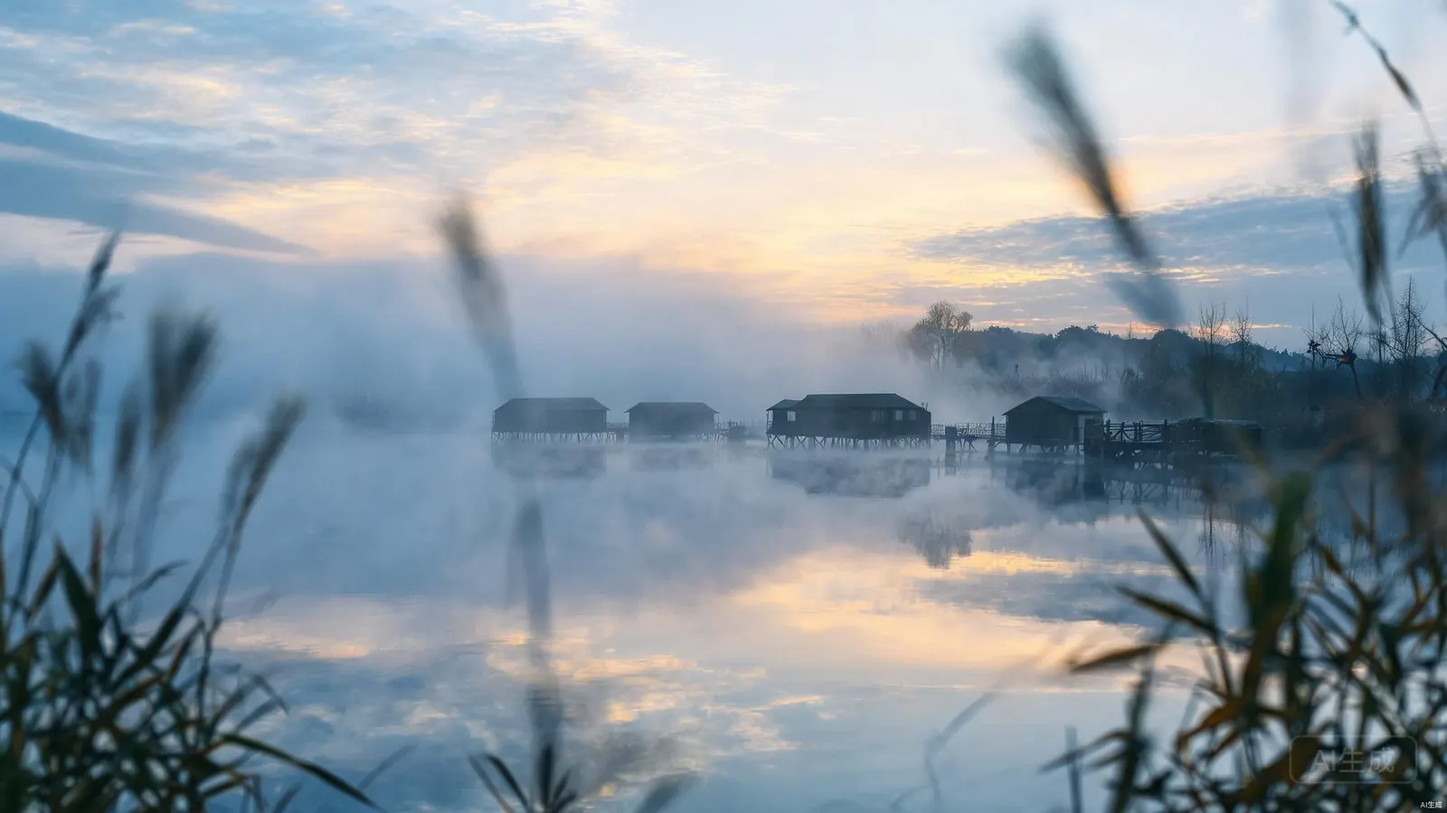
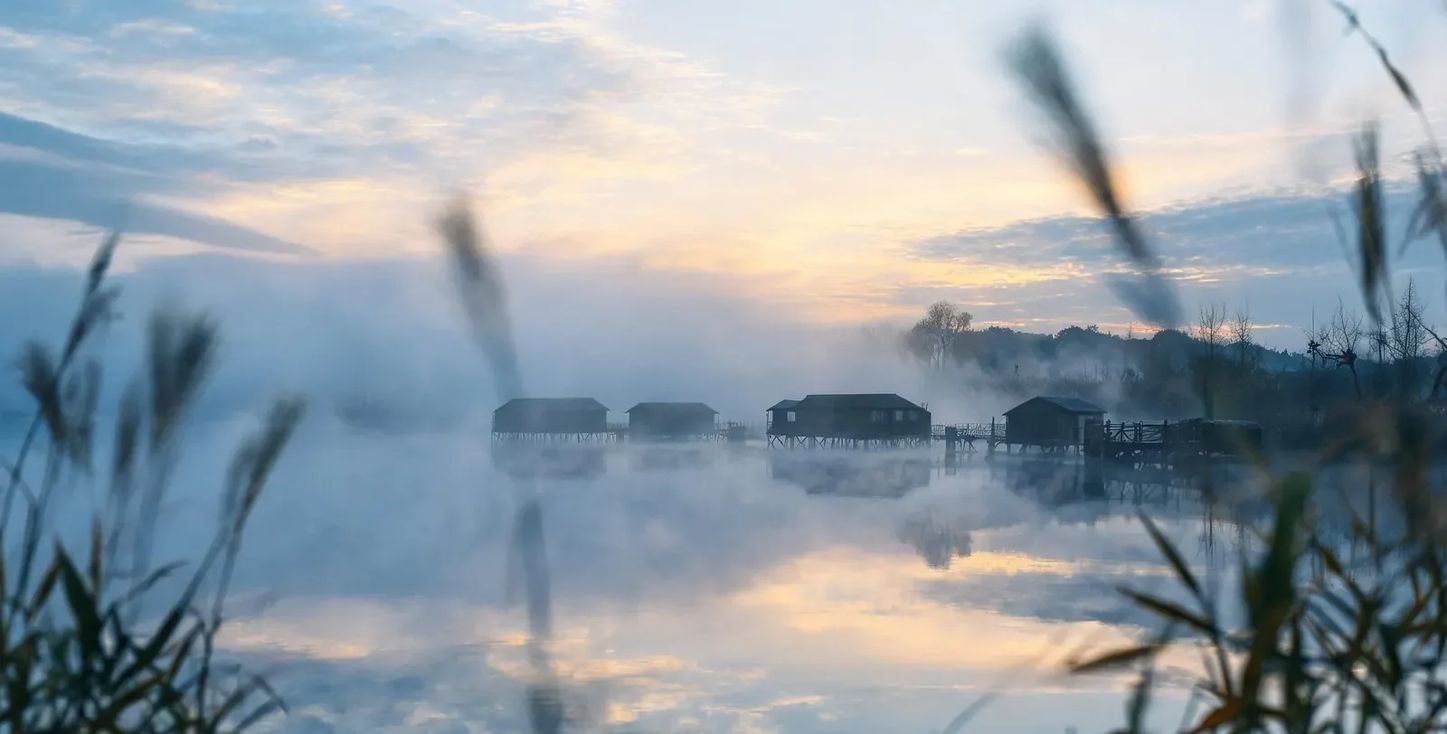
fix: crop watermarks, mobile nav, Beijing day count
Crop the AI badge off generated frames. Count days from 2003-05-15 in Asia/Shanghai. Add a phone menu, drop the ticker and custom cursor, and smooth scrolling.

diff --git a/assets/js/lenis.min.js b/assets/js/lenis.min.js
@@ -1,0 +1,2 @@
+var k="1.1.18";function w(r,t,e){return Math.max(r,Math.min(t,e))}function W(r,t,e){return(1-e)*r+e*t}function z(r,t,e,i){return W(r,t,1-Math.exp(-e*i))}function x(r,t){return(r%t+t)%t}var y=class{isRunning=!1;value=0;from=0;to=0;currentTime=0;lerp;duration;easing;onUpdate;advance(t){if(!this.isRunning)return;let e=!1;if(this.duration&&this.easing){this.currentTime+=t;let i=w(0,this.currentTime/this.duration,1);e=i>=1;let s=e?1:this.easing(i);this.value=this.from+(this.to-this.from)*s}else this.lerp?(this.value=z(this.value,this.to,this.lerp*60,t),Math.round(this.value)===this.to&&(this.value=this.to,e=!0)):(this.value=this.to,e=!0);e&&this.stop(),this.onUpdate?.(this.value,e)}stop(){this.isRunning=!1}fromTo(t,e,{lerp:i,duration:s,easing:o,onStart:l,onUpdate:h}){this.from=this.value=t,this.to=e,this.lerp=i,this.duration=s,this.easing=o,this.currentTime=0,this.isRunning=!0,l?.(),this.onUpdate=h}};function R(r,t){let e;return function(...i){let s=this;clearTimeout(e),e=setTimeout(()=>{e=void 0,r.apply(s,i)},t)}}var E=class{constructor(t,e,{autoResize:i=!0,debounce:s=250}={}){this.wrapper=t;this.content=e;i&&(this.debouncedResize=R(this.resize,s),this.wrapper instanceof Window?window.addEventListener("resize",this.debouncedResize,!1):(this.wrapperResizeObserver=new ResizeObserver(this.debouncedResize),this.wrapperResizeObserver.observe(this.wrapper)),this.contentResizeObserver=new ResizeObserver(this.debouncedResize),this.contentResizeObserver.observe(this.content)),this.resize()}width=0;height=0;scrollHeight=0;scrollWidth=0;debouncedResize;wrapperResizeObserver;contentResizeObserver;destroy(){this.wrapperResizeObserver?.disconnect(),this.contentResizeObserver?.disconnect(),this.wrapper===window&&this.debouncedResize&&window.removeEventListener("resize",this.debouncedResize,!1)}resize=()=>{this.onWrapperResize(),this.onContentResize()};onWrapperResize=()=>{this.wrapper instanceof Window?(this.width=window.innerWidth,this.height=window.innerHeight):(this.width=this.wrapper.clientWidth,this.height=this.wrapper.clientHeight)};onContentResize=()=>{this.wrapper instanceof Window?(this.scrollHeight=this.content.scrollHeight,this.scrollWidth=this.content.scrollWidth):(this.scrollHeight=this.wrapper.scrollHeight,this.scrollWidth=this.wrapper.scrollWidth)};get limit(){return{x:this.scrollWidth-this.width,y:this.scrollHeight-this.height}}};var f=class{events={};emit(t,...e){let i=this.events[t]||[];for(let s=0,o=i.length;s<o;s++)i[s]?.(...e)}on(t,e){return this.events[t]?.push(e)||(this.events[t]=[e]),()=>{this.events[t]=this.events[t]?.filter(i=>e!==i)}}off(t,e){this.events[t]=this.events[t]?.filter(i=>e!==i)}destroy(){this.events={}}};var _=100/6,u={passive:!1},T=class{constructor(t,e={wheelMultiplier:1,touchMultiplier:1}){this.element=t;this.options=e;window.addEventListener("resize",this.onWindowResize,!1),this.onWindowResize(),this.element.addEventListener("wheel",this.onWheel,u),this.element.addEventListener("touchstart",this.onTouchStart,u),this.element.addEventListener("touchmove",this.onTouchMove,u),this.element.addEventListener("touchend",this.onTouchEnd,u)}touchStart={x:0,y:0};lastDelta={x:0,y:0};window={width:0,height:0};emitter=new f;on(t,e){return this.emitter.on(t,e)}destroy(){this.emitter.destroy(),window.removeEventListener("resize",this.onWindowResize,!1),this.element.removeEventListener("wheel",this.onWheel,u),this.element.removeEventListener("touchstart",this.onTouchStart,u),this.element.removeEventListener("touchmove",this.onTouchMove,u),this.element.removeEventListener("touchend",this.onTouchEnd,u)}onTouchStart=t=>{let{clientX:e,clientY:i}=t.targetTouches?t.targetTouches[0]:t;this.touchStart.x=e,this.touchStart.y=i,this.lastDelta={x:0,y:0},this.emitter.emit("scroll",{deltaX:0,deltaY:0,event:t})};onTouchMove=t=>{let{clientX:e,clientY:i}=t.targetTouches?t.targetTouches[0]:t,s=-(e-this.touchStart.x)*this.options.touchMultiplier,o=-(i-this.touchStart.y)*this.options.touchMultiplier;this.touchStart.x=e,this.touchStart.y=i,this.lastDelta={x:s,y:o},this.emitter.emit("scroll",{deltaX:s,deltaY:o,event:t})};onTouchEnd=t=>{this.emitter.emit("scroll",{deltaX:this.lastDelta.x,deltaY:this.lastDelta.y,event:t})};onWheel=t=>{let{deltaX:e,deltaY:i,deltaMode:s}=t,o=s===1?_:s===2?this.window.width:1,l=s===1?_:s===2?this.window.height:1;e*=o,i*=l,e*=this.options.wheelMultiplier,i*=this.options.wheelMultiplier,this.emitter.emit("scroll",{deltaX:e,deltaY:i,event:t})};onWindowResize=()=>{this.window={width:window.innerWidth,height:window.innerHeight}}};var L=class{_isScrolling=!1;_isStopped=!1;_isLocked=!1;_preventNextNativeScrollEvent=!1;_resetVelocityTimeout=null;__rafID=null;isTouching;time=0;userData={};lastVelocity=0;velocity=0;direction=0;options;targetScroll;animatedScroll;animate=new y;emitter=new f;dimensions;virtualScroll;constructor({wrapper:t=window,content:e=document.documentElement,eventsTarget:i=t,smoothWheel:s=!0,syncTouch:o=!1,syncTouchLerp:l=.075,touchInertiaMultiplier:h=35,duration:S,easing:d=H=>Math.min(1,1.001-Math.pow(2,-10*H)),lerp:c=.1,infinite:p=!1,orientation:b="vertical",gestureOrientation:n="vertical",touchMultiplier:a=1,wheelMultiplier:v=1,autoResize:g=!0,prevent:m,virtualScroll:N,overscroll:M=!0,autoRaf:O=!1,__experimental__naiveDimensions:D=!1}={}){window.lenisVersion=k,(!t||t===document.documentElement||t===document.body)&&(t=window),this.options={wrapper:t,content:e,eventsTarget:i,smoothWheel:s,syncTouch:o,syncTouchLerp:l,touchInertiaMultiplier:h,duration:S,easing:d,lerp:c,infinite:p,gestureOrientation:n,orientation:b,touchMultiplier:a,wheelMultiplier:v,autoResize:g,prevent:m,virtualScroll:N,overscroll:M,autoRaf:O,__experimental__naiveDimensions:D},this.dimensions=new E(t,e,{autoResize:g}),this.updateClassName(),this.targetScroll=this.animatedScroll=this.actualScroll,this.options.wrapper.addEventListener("scroll",this.onNativeScroll,!1),this.options.wrapper.addEventListener("pointerdown",this.onPointerDown,!1),this.virtualScroll=new T(i,{touchMultiplier:a,wheelMultiplier:v}),this.virtualScroll.on("scroll",this.onVirtualScroll),this.options.autoRaf&&(this.__rafID=requestAnimationFrame(this.raf))}destroy(){this.emitter.destroy(),this.options.wrapper.removeEventListener("scroll",this.onNativeScroll,!1),this.options.wrapper.removeEventListener("pointerdown",this.onPointerDown,!1),this.virtualScroll.destroy(),this.dimensions.destroy(),this.cleanUpClassName(),this.__rafID&&cancelAnimationFrame(this.__rafID)}on(t,e){return this.emitter.on(t,e)}off(t,e){return this.emitter.off(t,e)}setScroll(t){this.isHorizontal?this.rootElement.scrollLeft=t:this.rootElement.scrollTop=t}onPointerDown=t=>{t.button===1&&this.reset()};onVirtualScroll=t=>{if(typeof this.options.virtualScroll=="function"&&this.options.virtualScroll(t)===!1)return;let{deltaX:e,deltaY:i,event:s}=t;if(this.emitter.emit("virtual-scroll",{deltaX:e,deltaY:i,event:s}),s.ctrlKey||s.lenisStopPropagation)return;let o=s.type.includes("touch"),l=s.type.includes("wheel");this.isTouching=s.type==="touchstart"||s.type==="touchmove";let h=e===0&&i===0;if(this.options.syncTouch&&o&&s.type==="touchstart"&&h&&!this.isStopped&&!this.isLocked){this.reset();return}let d=this.options.gestureOrientation==="vertical"&&i===0||this.options.gestureOrientation==="horizontal"&&e===0;if(h||d)return;let c=s.composedPath();c=c.slice(0,c.indexOf(this.rootElement));let p=this.options.prevent;if(c.find(m=>m instanceof HTMLElement&&(typeof p=="function"&&p?.(m)||m.hasAttribute?.("data-lenis-prevent")||o&&m.hasAttribute?.("data-lenis-prevent-touch")||l&&m.hasAttribute?.("data-lenis-prevent-wheel"))))return;if(this.isStopped||this.isLocked){s.preventDefault();return}if(!(this.options.syncTouch&&o||this.options.smoothWheel&&l)){this.isScrolling="native",this.animate.stop(),s.lenisStopPropagation=!0;return}let n=i;this.options.gestureOrientation==="both"?n=Math.abs(i)>Math.abs(e)?i:e:this.options.gestureOrientation==="horizontal"&&(n=e),(!this.options.overscroll||this.options.infinite||this.options.wrapper!==window&&(this.animatedScroll>0&&this.animatedScroll<this.limit||this.animatedScroll===0&&i>0||this.animatedScroll===this.limit&&i<0))&&(s.lenisStopPropagation=!0),s.preventDefault();let a=o&&this.options.syncTouch,g=o&&s.type==="touchend"&&Math.abs(n)>5;g&&(n=this.velocity*this.options.touchInertiaMultiplier),this.scrollTo(this.targetScroll+n,{programmatic:!1,...a?{lerp:g?this.options.syncTouchLerp:1}:{lerp:this.options.lerp,duration:this.options.duration,easing:this.options.easing}})};resize(){this.dimensions.resize(),this.animatedScroll=this.targetScroll=this.actualScroll,this.emit()}emit(){this.emitter.emit("scroll",this)}onNativeScroll=()=>{if(this._resetVelocityTimeout!==null&&(clearTimeout(this._resetVelocityTimeout),this._resetVelocityTimeout=null),this._preventNextNativeScrollEvent){this._preventNextNativeScrollEvent=!1;return}if(this.isScrolling===!1||this.isScrolling==="native"){let t=this.animatedScroll;this.animatedScroll=this.targetScroll=this.actualScroll,this.lastVelocity=this.velocity,this.velocity=this.animatedScroll-t,this.direction=Math.sign(this.animatedScroll-t),this.isStopped||(this.isScrolling="native"),this.emit(),this.velocity!==0&&(this._resetVelocityTimeout=setTimeout(()=>{this.lastVelocity=this.velocity,this.velocity=0,this.isScrolling=!1,this.emit()},400))}};reset(){this.isLocked=!1,this.isScrolling=!1,this.animatedScroll=this.targetScroll=this.actualScroll,this.lastVelocity=this.velocity=0,this.animate.stop()}start(){this.isStopped&&(this.reset(),this.isStopped=!1)}stop(){this.isStopped||(this.reset(),this.isStopped=!0)}raf=t=>{let e=t-(this.time||t);this.time=t,this.animate.advance(e*.001),this.options.autoRaf&&(this.__rafID=requestAnimationFrame(this.raf))};scrollTo(t,{offset:e=0,immediate:i=!1,lock:s=!1,duration:o=this.options.duration,easing:l=this.options.easing,lerp:h=this.options.lerp,onStart:S,onComplete:d,force:c=!1,programmatic:p=!0,userData:b}={}){if(!((this.isStopped||this.isLocked)&&!c)){if(typeof t=="string"&&["top","left","start"].includes(t))t=0;else if(typeof t=="string"&&["bottom","right","end"].includes(t))t=this.limit;else{let n;if(typeof t=="string"?n=document.querySelector(t):t instanceof HTMLElement&&t?.nodeType&&(n=t),n){if(this.options.wrapper!==window){let v=this.rootElement.getBoundingClientRect();e-=this.isHorizontal?v.left:v.top}let a=n.getBoundingClientRect();t=(this.isHorizontal?a.left:a.top)+this.animatedScroll}}if(typeof t=="number"){if(t+=e,t=Math.round(t),this.options.infinite?p&&(this.targetScroll=this.animatedScroll=this.scroll):t=w(0,t,this.limit),t===this.targetScroll){S?.(this),d?.(this);return}if(this.userData=b??{},i){this.animatedScroll=this.targetScroll=t,this.setScroll(this.scroll),this.reset(),this.preventNextNativeScrollEvent(),this.emit(),d?.(this),this.userData={};return}p||(this.targetScroll=t),this.animate.fromTo(this.animatedScroll,t,{duration:o,easing:l,lerp:h,onStart:()=>{s&&(this.isLocked=!0),this.isScrolling="smooth",S?.(this)},onUpdate:(n,a)=>{this.isScrolling="smooth",this.lastVelocity=this.velocity,this.velocity=n-this.animatedScroll,this.direction=Math.sign(this.velocity),this.animatedScroll=n,this.setScroll(this.scroll),p&&(this.targetScroll=n),a||this.emit(),a&&(this.reset(),this.emit(),d?.(this),this.userData={},this.preventNextNativeScrollEvent())}})}}}preventNextNativeScrollEvent(){this._preventNextNativeScrollEvent=!0,requestAnimationFrame(()=>{this._preventNextNativeScrollEvent=!1})}get rootElement(){return this.options.wrapper===window?document.documentElement:this.options.wrapper}get limit(){return this.options.__experimental__naiveDimensions?this.isHorizontal?this.rootElement.scrollWidth-this.rootElement.clientWidth:this.rootElement.scrollHeight-this.rootElement.clientHeight:this.dimensions.limit[this.isHorizontal?"x":"y"]}get isHorizontal(){return this.options.orientation==="horizontal"}get actualScroll(){return this.isHorizontal?this.rootElement.scrollLeft:this.rootElement.scrollTop}get scroll(){return this.options.infinite?x(this.animatedScroll,this.limit):this.animatedScroll}get progress(){return this.limit===0?1:this.scroll/this.limit}get isScrolling(){return this._isScrolling}set isScrolling(t){this._isScrolling!==t&&(this._isScrolling=t,this.updateClassName())}get isStopped(){return this._isStopped}set isStopped(t){this._isStopped!==t&&(this._isStopped=t,this.updateClassName())}get isLocked(){return this._isLocked}set isLocked(t){this._isLocked!==t&&(this._isLocked=t,this.updateClassName())}get isSmooth(){return this.isScrolling==="smooth"}get className(){let t="lenis";return this.isStopped&&(t+=" lenis-stopped"),this.isLocked&&(t+=" lenis-locked"),this.isScrolling&&(t+=" lenis-scrolling"),this.isScrolling==="smooth"&&(t+=" lenis-smooth"),t}updateClassName(){this.cleanUpClassName(),this.rootElement.className=`${this.rootElement.className} ${this.className}`.trim()}cleanUpClassName(){this.rootElement.className=this.rootElement.className.replace(/lenis(-\w+)?/g,"").trim()}};globalThis.Lenis=L;
+//# sourceMappingURL=lenis.min.js.map

diff --git a/index.html b/index.html
@@ -24,7 +24,6 @@
 
 <a class="skip" href="#main">Skip to content</a>
 
-<div class="cursor" aria-hidden="true"><span class="cursor__label"></span></div>
 <div class="grain" aria-hidden="true"></div>
 
 <!-- ============ header ============ -->
@@ -34,7 +33,7 @@
     <span class="brand__cn" data-zh="康">K</span>
   </a>
 
-  <nav class="site-nav" aria-label="Sections">
+  <nav class="site-nav" id="siteNav" aria-label="Sections">
     <a href="#index" data-nav>Index</a>
     <a href="#frames" data-nav>Frames</a>
     <a href="#letters" data-nav>Letters</a>
@@ -54,6 +53,7 @@
       <span class="visitors__dot" aria-hidden="true"></span>
       <span class="visitors__count" id="visitorCount">—</span>
     </button>
+    <button class="nav-toggle" id="navToggle" type="button" aria-expanded="false" aria-controls="siteNav" aria-label="Menu"><span></span><span></span></button>
     <button class="lang" id="langBtn" type="button" aria-label="Switch language">
       <span class="lang__on" data-zh="中">EN</span><span class="lang__sep">/</span><span class="lang__off" data-zh="EN">中</span>
     </button>
@@ -83,28 +83,21 @@
           A quiet corner of the internet — where golden hour spills over window sills, laughter pauses before it breaks, and empty streets hold their breath for one more click of the shutter.
         </p>
         <div class="hero__stats">
-          <div><b>12</b><span data-zh="帧">frames</span></div>
+          <div><b>05</b><span data-zh="帧">frames</span></div>
           <div><b>04</b><span data-zh="封信">letters</span></div>
-          <div><b>8,578</b><span data-zh="天">days</span></div>
+          <div><b id="dayCount">—</b><span data-zh="天">days</span></div>
         </div>
       </div>
 
       <figure class="hero__media">
         <div class="hero__media-in">
-          <img src="assets/gallery-04-yuanyang-terraces.webp" alt="Yuanyang rice terraces at first light" width="1600" height="900" fetchpriority="high" decoding="async">
+          <img src="assets/gallery-04-yuanyang-terraces.webp" alt="Yuanyang rice terraces at first light" width="1600" height="812" fetchpriority="high" decoding="async">
         </div>
         <figcaption>
           <span>01 — Slow Fields</span>
           <span data-zh="元阳 · 06:31">Yuanyang · 06:31</span>
         </figcaption>
       </figure>
-    </div>
-
-
-    <div class="ticker" aria-hidden="true">
-      <div class="ticker__track" id="tickerTrack">
-        <span>泸沽湖 LUGU</span><i>·</i><span>大理 DALI</span><i>·</i><span>元阳 YUANYANG</span><i>·</i><span>建水 JIANSHUI</span><i>·</i><span>蒙自 MENGZI</span><i>·</i><span>安宁 ANNING</span><i>·</i><span>河口 HEKOU</span><i>·</i>
-      </div>
     </div>
   </section>
 
@@ -113,7 +106,7 @@
     <div class="wrap">
       <header class="sec-head">
         <h2 class="sec-title"><span class="sec-num">01</span> Index</h2>
-        <p class="sec-note" data-zh="十二帧，按遇见它们的顺序。">Twelve frames, in the order they found me.</p>
+        <p class="sec-note" data-zh="五帧，按遇见它们的顺序。">Five frames, in the order they found me.</p>
       </header>
 
       <ol class="index-list" id="indexList">
@@ -123,24 +116,10 @@
           <span class="idx">02</span><span class="idx-name">Silent Lake</span><span class="idx-place" data-zh="泸沽湖 · 晨雾">Lugu</span><span class="idx-time">05:47</span></a></li>
         <li><a href="#f3" data-img="assets/gallery-03-dali-roofs.webp">
           <span class="idx">03</span><span class="idx-name">Dali Old Town</span><span class="idx-place" data-zh="大理 · 屋顶">Dali</span><span class="idx-time">15:40</span></a></li>
-        <li><a href="#f4" data-img="assets/gallery-15-user.webp">
-          <span class="idx">04</span><span class="idx-name">Old Mountains</span><span class="idx-place" data-zh="远山 · 故里">Anning</span><span class="idx-time">16:12</span></a></li>
-        <li><a href="#f5" data-img="assets/gallery-19-user.webp">
-          <span class="idx">05</span><span class="idx-name">Border Fires</span><span class="idx-place" data-zh="边城 · 夜火">Hekou</span><span class="idx-time">21:08</span></a></li>
-        <li><a href="#f6" data-img="assets/gallery-17-user.webp">
-          <span class="idx">06</span><span class="idx-name">All Gold</span><span class="idx-place" data-zh="安宁 · 秋色">Anning</span><span class="idx-time">17:22</span></a></li>
-        <li><a href="#f7" data-img="assets/gallery-13-user.webp">
-          <span class="idx">07</span><span class="idx-name">City Under Clouds</span><span class="idx-place" data-zh="云下城邦">Kunming</span><span class="idx-time">14:05</span></a></li>
-        <li><a href="#f8" data-img="assets/gallery-18-user.webp">
-          <span class="idx">08</span><span class="idx-name">Sky and Wall</span><span class="idx-place" data-zh="天色与墙">Jianshui</span><span class="idx-time">11:38</span></a></li>
-        <li><a href="#f9" data-img="assets/gallery-16-user.webp">
-          <span class="idx">09</span><span class="idx-name">Bloom in Shadow</span><span class="idx-place" data-zh="暗处生花">Mengzi</span><span class="idx-time">18:04</span></a></li>
-        <li><a href="#f10" data-img="assets/gallery-10-lugu-water.webp">
-          <span class="idx">10</span><span class="idx-name">Lugu Water</span><span class="idx-place" data-zh="泸沽之水">Lugu</span><span class="idx-time">07:15</span></a></li>
-        <li><a href="#f11" data-img="assets/gallery-11-rice-terraces.webp">
-          <span class="idx">11</span><span class="idx-name">Rice Terraces</span><span class="idx-place" data-zh="哈尼 · 梯田">Hani</span><span class="idx-time">08:02</span></a></li>
-        <li><a href="#f12" data-img="assets/gallery-12-yunnan-sky.webp">
-          <span class="idx">12</span><span class="idx-name">Yunnan Sky</span><span class="idx-place" data-zh="云南的天空">Yunnan</span><span class="idx-time">17:58</span></a></li>
+        <li><a href="#f4" data-img="assets/gallery-19-user.webp">
+          <span class="idx">04</span><span class="idx-name">Border Fires</span><span class="idx-place" data-zh="河口 · 边城">Hekou</span><span class="idx-time">21:08</span></a></li>
+        <li><a href="#f5" data-img="assets/gallery-15-user.webp">
+          <span class="idx">05</span><span class="idx-name">Old Mountains</span><span class="idx-place" data-zh="远山 · 故里">Anning</span><span class="idx-time">16:12</span></a></li>
       </ol>
     </div>
     <div class="index-preview" id="indexPreview" aria-hidden="true"><img alt="" id="indexPreviewImg" decoding="async"></div>
@@ -155,7 +134,7 @@
 
     <article class="frame frame--wide" id="f1">
       <figure>
-        <div class="media" data-parallax><img src="assets/gallery-04-yuanyang-terraces.webp" alt="Yuanyang rice terraces at sunrise" width="1600" height="900" loading="lazy" decoding="async"></div>
+        <div class="media" data-parallax><img src="assets/gallery-04-yuanyang-terraces.webp" alt="Yuanyang rice terraces at sunrise" width="1600" height="812" loading="lazy" decoding="async"></div>
         <figcaption>
           <span class="cap-num">01</span>
           <span class="cap-title">Slow Fields</span>
@@ -167,7 +146,7 @@
 
     <article class="frame frame--tall frame--right" id="f2">
       <figure>
-        <div class="media" data-parallax><img src="assets/gallery-01-lugu-lake.webp" alt="Lugu Lake in morning mist" width="1600" height="900" loading="lazy" decoding="async"></div>
+        <div class="media" data-parallax><img src="assets/gallery-01-lugu-lake.webp" alt="Lugu Lake in morning mist" width="1600" height="812" loading="lazy" decoding="async"></div>
         <figcaption>
           <span class="cap-num">02</span>
           <span class="cap-title">Silent Lake</span>
@@ -179,7 +158,7 @@
 
     <article class="frame frame--square" id="f3">
       <figure>
-        <div class="media" data-parallax><img src="assets/gallery-03-dali-roofs.webp" alt="Dali old town roofs with morning steam" width="1600" height="1600" loading="lazy" decoding="async"></div>
+        <div class="media" data-parallax><img src="assets/gallery-03-dali-roofs.webp" alt="Dali old town roofs with morning steam" width="1600" height="1426" loading="lazy" decoding="async"></div>
         <figcaption>
           <span class="cap-num">03</span>
           <span class="cap-title">Dali Old Town</span>
@@ -365,6 +344,7 @@
   </ul>
 </aside>
 
+<script src="assets/js/lenis.min.js" defer></script>
 <script src="assets/js/site.js" defer></script>
 </body>
 </html>

diff --git a/assets/js/site.js b/assets/js/site.js
@@ -172,34 +172,20 @@
     });
   }
 
-  /* ---------------- custom cursor ---------------- */
-  function initCursor() {
-    if (!fine || reduce) return;
-    var el = $('.cursor');
-    var label = $('.cursor__label');
-    if (!el) return;
-
-    var x = window.innerWidth / 2, y = window.innerHeight / 2, tx = x, ty = y;
-
-    document.addEventListener('pointermove', function (e) {
-      tx = e.clientX; ty = e.clientY;
-      el.classList.add('is-on');
-    }, { passive: true });
-
-    (function loop() {
-      x += (tx - x) * 0.2;
-      y += (ty - y) * 0.2;
-      el.style.transform = 'translate3d(' + x + 'px,' + y + 'px,0) translate(-50%,-50%)';
-      raf(loop);
-    })();
-
-    document.addEventListener('pointerover', function (e) {
-      var t = e.target.closest && e.target.closest('a, button, [data-magnet]');
-      if (!t) { el.classList.remove('is-grow'); return; }
-      var text = t.getAttribute('data-cursor') || (t.classList.contains('index-list') ? 'View' : '');
-      if (label) label.textContent = text;
-      el.classList.toggle('is-grow', !!text);
-    });
+  /* ---------------- mobile nav ---------------- */
+  function initMenu() {
+    var btn = $('#navToggle');
+    var nav = $('#siteNav');
+    if (!btn || !nav) return;
+    function setOpen(open) {
+      nav.classList.toggle('is-open', open);
+      btn.setAttribute('aria-expanded', open ? 'true' : 'false');
+      btn.setAttribute('aria-label', open ? (root.lang.indexOf('zh') === 0 ? '关闭菜单' : 'Close menu') : (root.lang.indexOf('zh') === 0 ? '菜单' : 'Menu'));
+    }
+    btn.addEventListener('click', function () { setOpen(!nav.classList.contains('is-open')); });
+    $$('a', nav).forEach(function (a) { a.addEventListener('click', function () { setOpen(false); }); });
+    document.addEventListener('keydown', function (e) { if (e.key === 'Escape') setOpen(false); });
+    window.addEventListener('jk-lang', function () { setOpen(nav.classList.contains('is-open')); });
   }
 
   /* ---------------- magnetic links ---------------- */
@@ -303,31 +289,61 @@
     }, 7000);
   }
 
-  /* ---------------- ticker ---------------- */
-  function initTicker() {
-    var track = $('#tickerTrack');
-    if (!track) return;
-    track.innerHTML += track.innerHTML;
+  /* ---------------- Beijing clock + days since 2003-05-15 ---------------- */
+  function beijingParts() {
+    var fmt = new Intl.DateTimeFormat('en-GB', {
+      timeZone: 'Asia/Shanghai',
+      year: 'numeric', month: '2-digit', day: '2-digit',
+      hour: '2-digit', minute: '2-digit', second: '2-digit',
+      hourCycle: 'h23'
+    });
+    var out = {};
+    fmt.formatToParts(new Date()).forEach(function (p) { if (p.type !== 'literal') out[p.type] = p.value; });
+    return out;
   }
-
-  /* ---------------- clock + exposure ---------------- */
+  function beijingDays() {
+    var p = beijingParts();
+    var today = Date.UTC(+p.year, +p.month - 1, +p.day);
+    var start = Date.UTC(2003, 4, 15);
+    return Math.round((today - start) / 86400000);
+  }
   function initClock() {
     var el = $('#headTime');
-    if (!el) return;
-    function pad(n) { return n < 10 ? '0' + n : '' + n; }
+    var dayEl = $('#dayCount');
+    var ex = $('#exposure');
     function tick() {
-      var d = new Date();
-      el.textContent = pad(d.getHours()) + ':' + pad(d.getMinutes()) + ':' + pad(d.getSeconds());
+      var p = beijingParts();
+      if (el) el.textContent = p.hour + ':' + p.minute + ':' + p.second;
+      var days = beijingDays();
+      if (dayEl) dayEl.textContent = days.toLocaleString('en-US');
+      if (ex) ex.textContent = String(days).padStart(6, '0');
     }
     tick();
     setInterval(tick, 1000);
+  }
 
-    var ex = $('#exposure');
-    if (ex) {
-      var start = new Date(2003, 4, 15);
-      var days = Math.ceil((Date.now() - start.getTime()) / 86400000);
-      ex.textContent = String(days).padStart(6, '0');
-    }
+  /* ---------------- smooth scroll ---------------- */
+  function initSmooth() {
+    if (reduce || !window.Lenis) return;
+    document.documentElement.style.scrollBehavior = 'auto';
+    var lenis = new window.Lenis({
+      duration: 1.05,
+      smoothWheel: true,
+      wheelMultiplier: 0.9,
+      touchMultiplier: 1.1,
+      anchors: false
+    });
+    function rafLoop(t) { lenis.raf(t); raf(rafLoop); }
+    raf(rafLoop);
+    document.addEventListener('click', function (e) {
+      var a = e.target.closest && e.target.closest('a[href^="#"]');
+      if (!a) return;
+      var id = a.getAttribute('href').slice(1);
+      var target = id ? document.getElementById(id) : null;
+      if (!target) return;
+      e.preventDefault();
+      lenis.scrollTo(target, { offset: -72 });
+    });
   }
 
   /* ---------------- active nav ---------------- */
@@ -630,12 +646,12 @@
     initIntro();
     initReveal();
     initIndexPreview();
-    initCursor();
+    initMenu();
     initMagnets();
     initLetters();
     initRotator();
-    initTicker();
     initClock();
+    initSmooth();
     initActiveNav();
     initParallax();
     initMusic();

diff --git a/assets/css/site.css b/assets/css/site.css
@@ -70,28 +70,6 @@ ol,ul{list-style:none}
   mix-blend-mode:multiply;
 }
 
-/* ---------- cursor ---------- */
-.cursor{
-  position:fixed;top:0;left:0;z-index:120;pointer-events:none;
-  width:14px;height:14px;margin:-7px 0 0 -7px;border-radius:50%;
-  background:var(--ink);opacity:0;
-  transform:translate3d(-100px,-100px,0);
-  transition:width .35s var(--ease),height .35s var(--ease),margin .35s var(--ease),
-             background .35s var(--ease),opacity .3s ease;
-  will-change:transform;
-  display:grid;place-items:center;overflow:hidden;
-}
-.cursor.is-on{opacity:.9}
-.cursor.is-grow{
-  width:76px;height:76px;margin:-38px 0 0 -38px;background:var(--accent);opacity:.95;
-}
-.cursor__label{
-  font-size:.55rem;letter-spacing:.16em;text-transform:uppercase;color:var(--paper);
-  opacity:0;transition:opacity .25s ease;white-space:nowrap;
-}
-.cursor.is-grow .cursor__label{opacity:1}
-@media (hover:none),(pointer:coarse){.cursor{display:none}}
-
 /* ---------- type helpers ---------- */
 .kicker{
   font-size:.6rem;letter-spacing:.3em;text-transform:uppercase;
@@ -272,20 +250,15 @@ ol,ul{list-style:none}
   font-size:.56rem;letter-spacing:.2em;text-transform:uppercase;color:var(--ink-3);
 }
 
-.ticker{
-  overflow:hidden;border-top:1px solid var(--line-soft);
-  padding:.85rem 0;margin:0 calc(var(--gut) * -1);
-  mask-image:linear-gradient(90deg,transparent,#000 6%,#000 94%,transparent);
-  -webkit-mask-image:linear-gradient(90deg,transparent,#000 6%,#000 94%,transparent);
+.nav-toggle{
+  display:none;width:36px;height:36px;padding:0;border:1px solid var(--line);border-radius:999px;
+  position:relative;flex:none;
 }
-.ticker__track{
-  display:flex;gap:1.4rem;width:max-content;
-  font-size:.62rem;letter-spacing:.26em;text-transform:uppercase;color:var(--ink-3);
-  animation:marquee 38s linear infinite;
-}
-.ticker__track span{white-space:nowrap}
-.ticker__track i{color:var(--accent);opacity:.6}
-@keyframes marquee{from{transform:translateX(0)}to{transform:translateX(-50%)}}
+.nav-toggle span{position:absolute;left:10px;right:10px;height:1px;background:currentColor;transition:transform .4s var(--ease)}
+.nav-toggle span:first-child{top:14px}
+.nav-toggle span:last-child{bottom:14px}
+.nav-toggle[aria-expanded="true"] span:first-child{transform:translateY(3.5px) rotate(45deg)}
+.nav-toggle[aria-expanded="true"] span:last-child{transform:translateY(-3.5px) rotate(-45deg)}
 
 /* ==========================================================================
    section chrome
@@ -441,12 +414,16 @@ section{position:relative}
 }
 .letter::before{
   content:"";position:absolute;inset:0;z-index:0;
-  background-image:var(--bg);background-size:cover;background-position:center;
-  opacity:.045;filter:saturate(.55) contrast(.95);
-  mix-blend-mode:multiply;
+  background-image:var(--bg);background-size:cover;background-position:center 40%;
+  opacity:.42;filter:saturate(.9) contrast(1.02);
+  transform:scale(1.04);
   transition:opacity .8s ease,transform 1.4s var(--ease);
 }
-.letter:hover::before{opacity:.1;transform:scale(1.04)}
+.letter::after{
+  content:"";position:absolute;inset:0;z-index:0;
+  background:linear-gradient(180deg,rgba(247,243,236,.9) 0%,rgba(247,243,236,.78) 42%,rgba(247,243,236,.9) 100%);
+}
+.letter:hover::before{opacity:.55;transform:scale(1.08)}
 .letter > *{position:relative;z-index:1}
 .letter__no{
   font-size:.56rem;letter-spacing:.28em;text-transform:uppercase;color:var(--accent);
@@ -611,7 +588,15 @@ html[lang="zh-CN"] .about__quote{
   .frame .media{aspect-ratio:4/3}
   .frame--tall .media{aspect-ratio:4/5}
   .site-head{grid-template-columns:1fr auto;padding-top:.9rem;padding-bottom:.9rem}
-  .site-nav{display:none}
+  .nav-toggle{display:inline-block}
+  .site-nav{
+    display:none;position:absolute;top:calc(100% - .2rem);left:var(--gut);right:var(--gut);z-index:5;
+    flex-direction:column;gap:.1rem;padding:.45rem;
+    background:rgba(247,243,236,.97);border:1px solid var(--line);border-radius:14px;
+    box-shadow:0 16px 40px rgba(40,28,20,.1);
+  }
+  .site-nav.is-open{display:flex}
+  .site-nav a{padding:.72rem .9rem;letter-spacing:.16em}
   .hero{padding-top:5.5rem}
   .hero__title{font-size:clamp(3.6rem,19vw,7rem)}
   .hero__foot{grid-template-columns:1fr;gap:1.6rem}
@@ -653,12 +638,11 @@ html[lang="zh-CN"] .about__quote{
   .js [data-reveal]{opacity:1;transform:none}
   .hero__title .line__in,.contact__title .line__in{transform:none}
   .frame .media img{transform:none}
-  .ticker__track{animation:none}
   .grain{display:none}
 }
 
 @media print{
-  .site-head,.hero__scroll,.ticker,.cursor,.grain,.letter-ui,.index-preview{display:none}
+  .site-head,.hero__scroll,.grain,.letter-ui,.index-preview,.nav-toggle{display:none}
   body{background:#fff;color:#000}
 }
 
